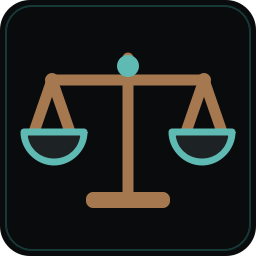
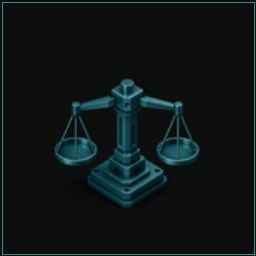
feat: 0.10.1 — значок приложения из настоящего знака Iustitia
- иконка теперь — подлинные весы Iustitia (тёмная бирюза, вырез из
  брендового apple-touch-icon), смонтированные на графитовый тайл
  #090b0c с тонким бирюзовым кольцом (icon-256/128.png)
- устаревший плоский icon.svg удалён: install.sh ставит PNG 128/256
  в hicolor и снимает старый scalable-SVG, кэш иконок обновляется;
  install-desktop.sh синхронизирован
- README: описание значка в таблице айдентики
- Тесты: 159/159 (ассеты иконки/логотипа существуют и декодируются)

Changed region(s): [[0.0625, 0.1875, 0.9375, 0.8125], [0.0, 0.0, 1.0, 1.0]]

diff --git a/tests/test_panel_extras.py b/tests/test_panel_extras.py
@@ -272,6 +272,17 @@ class BrandThemeTests(unittest.TestCase):
             default.color(QPalette.ColorRole.Window).name())
         _ = base_before
 
+    def test_icon_assets_present_and_valid(self):
+        from pathlib import Path
+
+        from PySide6.QtGui import QImage
+
+        base = Path(__file__).parent.parent / "sphaera_commander" / "assets"
+        for name in ("icon-128.png", "icon-256.png", "logo.png"):
+            img = QImage(str(base / name))
+            self.assertFalse(img.isNull(), name)
+        self.assertFalse((base / "icon.svg").exists())  # растровая айдентика
+
     def test_brand_constants_match_identity(self):
         from sphaera_commander import theme
 

diff --git a/sphaera_commander/app.py b/sphaera_commander/app.py
@@ -1093,7 +1093,7 @@ def _app_icon():
     from PySide6.QtGui import QIcon
 
     base = Path(__file__).parent / "assets"
-    for name in ("icon-256.png", "icon-128.png", "icon.svg"):
+    for name in ("icon-256.png", "icon-128.png"):
         if (base / name).exists():
             return QIcon(str(base / name))
     return QIcon()

diff --git a/sphaera_commander/__init__.py b/sphaera_commander/__init__.py
@@ -1,3 +1,3 @@
 """Sphaera Commander — двухпанельный файловый менеджер в духе Total Commander."""
 
-__version__ = "0.10.0"
+__version__ = "0.10.1"

diff --git a/README.md b/README.md
@@ -20,8 +20,8 @@
 | Второй акцент (бронза) | `#a6784f` |
 | Дисплейный шрифт | PT Serif (в «О программе» и заголовках) |
 
-Иконка приложения — весы правосудия в бронзе и бирюзе на графите
-(`sphaera_commander/assets/icon.svg`). Тёмная тема включена по умолчанию;
+Иконка приложения — фирменные весы Iustitia (тёмная бирюза на графите,
+`sphaera_commander/assets/icon-256.png`). Тёмная тема включена по умолчанию;
 отключается в «Вид → Фирменная тёмная тема» (вернёт системную палитру).
 
 ## Установка в систему
